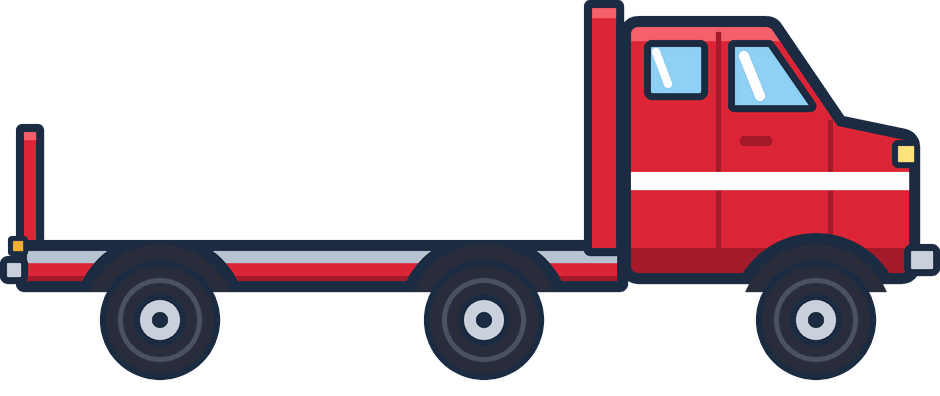
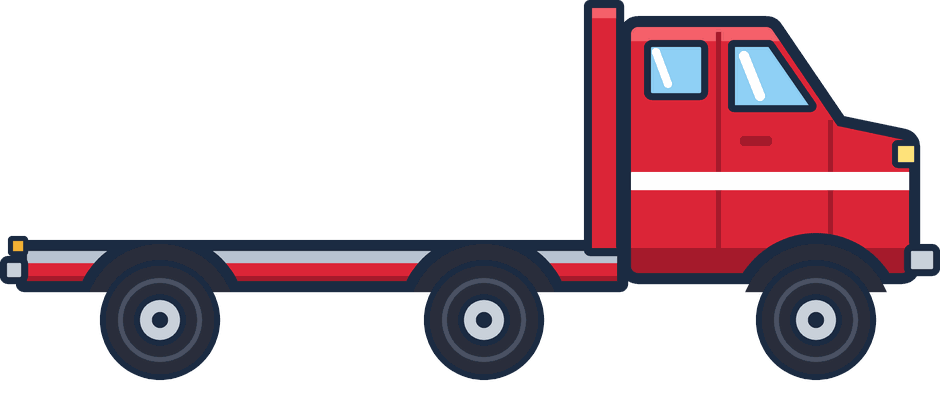
Remap moving V0 truck paths so the cab stays on screen
Paths whose right extreme would pass 959 (front extent 313 plus an
8 px margin in the 1280-wide view) are remapped at runtime: the sine
still uses the same period and left extreme, but the centre and
amplitude shrink together so it spans [left, 959] without stalling.
Level data is unchanged. Special vehicles are untouched. Bot and cab
hit-timing already read the live base_x and amp. cab_clip_test now
covers the moving right extreme and checks the left extreme is kept.

Also: v3 clouds draw at alpha 1.0 (v2 fallback stays 0.55). The truck
sprite no longer bakes a rear post; the post is drawn in code at each
level's wall_h (SWAP-IN §2c: rounded 14x(wall_h+10) rect at x -149,
navy inside border, cap highlight), on the back layer under the sprite
so the amber marker stays on top. Fallback procedural look is unchanged.

Changed region(s): [[0.0, 0.303, 0.0617, 0.6061]]

diff --git a/art/v3/LICENSES.md b/art/v3/LICENSES.md
@@ -6,7 +6,7 @@ Kenney audio rows stay in `art/v2/CREDITS.md` until audio is replaced.
 | File / generator | Licence | Source | Notes |
 |---|---|---|---|
 | `font/title.ttf` | SIL OFL 1.1 | [google/fonts ofl/lilitaone](https://github.com/google/fonts/tree/main/ofl/lilitaone) (`LilitaOne-Regular.ttf`) | In-game "FLICK FREIGHT" wordmark only. `OFL.txt` sits beside the font. Reserved Font Name: Lilita. Byte-identical to the copy already on `ff/phase1-town` 7d376cd. |
-| `truck/truck_v0.png` | Self-made, CC0-equivalent (no third-party content) | FF Visuals, generated by `make_build_pngs.py` (Phase 0 vector kit `ffart.py`) | V1 red V0 truck, palette B #DC2638. Delivered as 940x396 (2x of 470x198, origin (157,120)); SWAP-IN.md still says 940x380. 256-colour RGBA. |
+| `truck/truck_v0.png` | Self-made, CC0-equivalent (no third-party content) | FF Visuals, generated by `make_build_pngs.py` (Phase 0 vector kit `ffart.py`) | V1 red V0 truck, palette B #DC2638. Delivered as 940x396 (2x of 470x198, origin (157,120), 8,673 B). No baked rear post — Build draws it in code at each level's wall_h. 256-colour RGBA. |
 | `bg/bg_town.png` | Self-made, CC0-equivalent | FF Visuals, `make_build_pngs.py` + `town_board.py` | S1 + S11 Town sky, sun, far and near houses, trees, hedge. 1280x720. |
 | `bg/clouds.png` | Self-made, CC0-equivalent | FF Visuals, `make_build_pngs.py` | S10. 1024x400, pre-squashed for the game's 1.3x0.8 draw. |
 | `dock/warehouse.png`, `dock/dock_face.png`, `dock/belt_0..2.png`, `dock/beacon.png` | Self-made, CC0-equivalent | FF Visuals, `make_build_pngs.py` | D1-D5. Replaces Kenney ind_040/049/050/051 in this slice. |

diff --git a/art/v3/README.md b/art/v3/README.md
@@ -12,7 +12,8 @@ bed, the v3 far-wall draw behind cargo, and the Phase 1 Town PNG drop (truck, To
 clouds, dock, C1–C4).
 
 The truck slot accepts 470x190 (origin 157,112) or 470x198 (origin 157,120), 1x or 2x,
-detected from the image height. The delivered `truck_v0.png` is 940x396 (the 198 slot).
+detected from the image height. The delivered `truck_v0.png` is 940x396 (the 198 slot)
+and has no baked rear post; Build draws the post in code at each level's `wall_h`.
 
 `art/v3/fx/fx_atlas.png` is reserved and unused; it is excluded from the web export.
 
